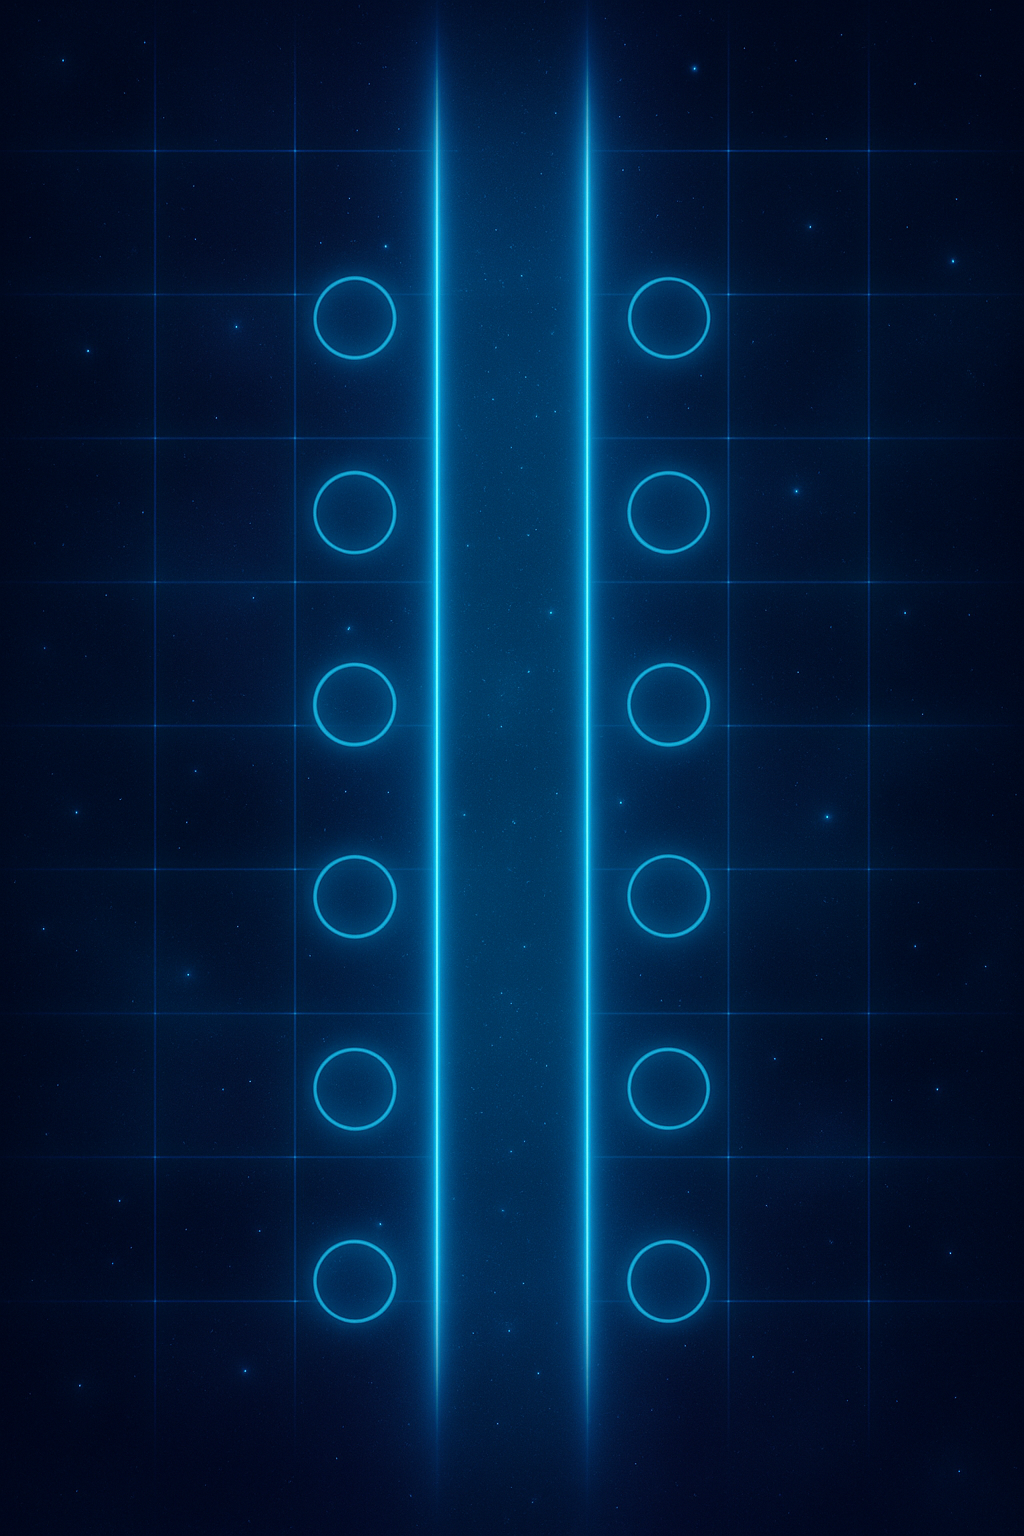
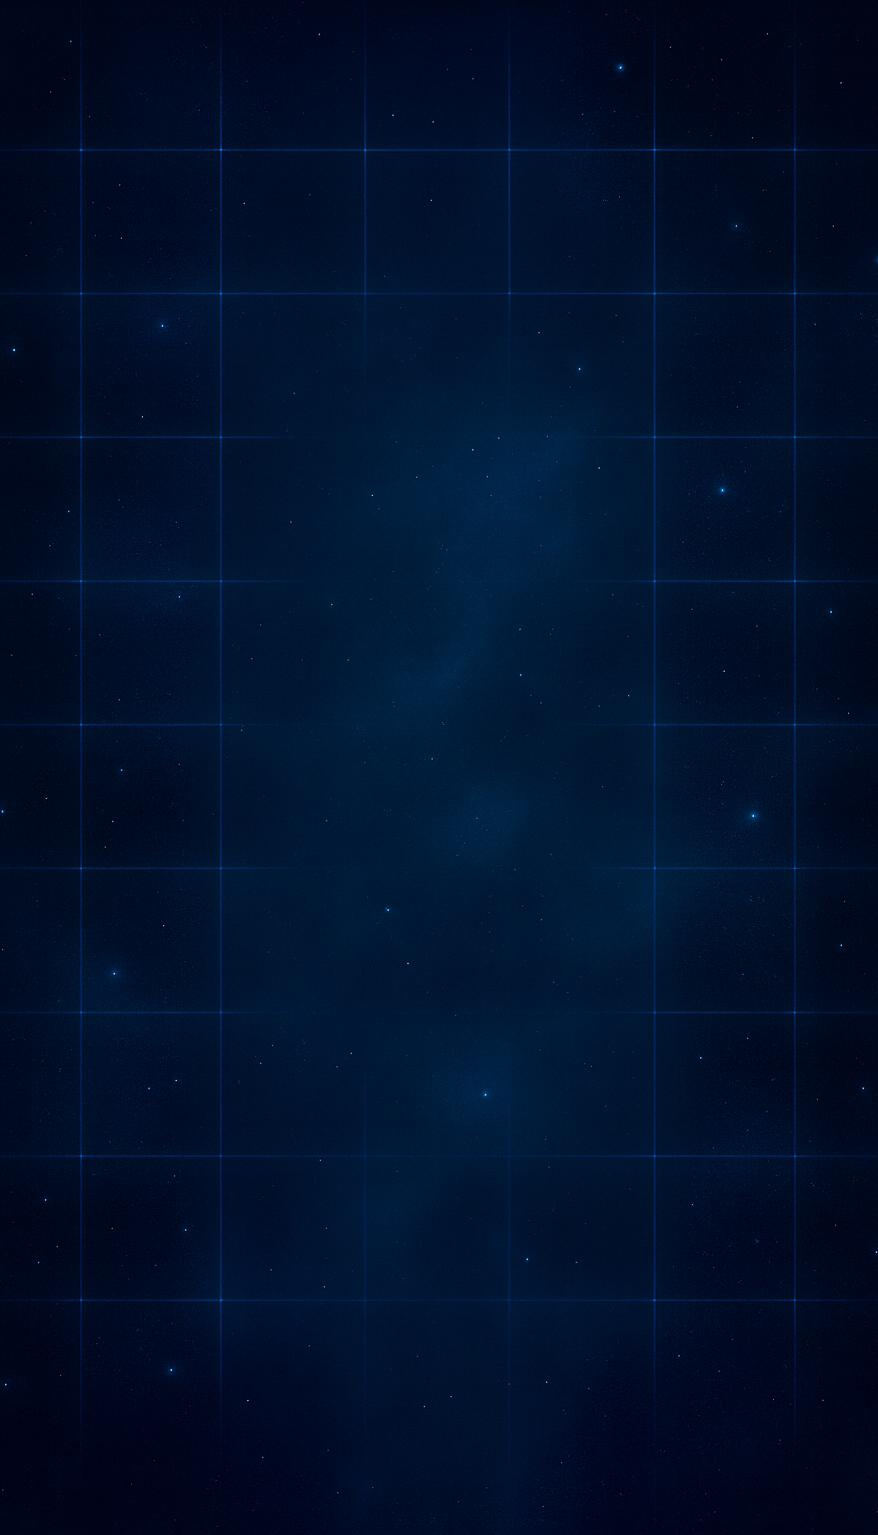
WIP.

diff --git a/src/Game.js b/src/Game.js
@@ -6,7 +6,7 @@ import { waveActions } from './gameWaves.js';
 import { callCrazyGamesEvent } from './crazyGamesIntegration.js';
 
 class Game {
-    constructor(canvas, { width = 540, height = 960, assets = null } = {}) {
+    constructor(canvas, { width = 540, height = 960 }) {
         this.canvas = canvas;
         this.logicalW = width;
         this.logicalH = height;
@@ -19,7 +19,8 @@ class Game {
         this.projectileSpawnInterval = 500;
         this.lastTime = 0;
         this.initStats();
-        this.pathX = this.logicalW / 2;
+        // this.pathX = this.logicalW / 2;
+        this.pathX = this.logicalW / 2 - 22;
         this.base = { x: this.pathX - 20, y: this.logicalH - 60, w: 40, h: 40 };
         this.createGrid();
         this.update = this.update.bind(this);
@@ -63,14 +64,17 @@ class Game {
 
     createGrid() {
         this.grid = [];
-        const leftX = this.pathX - 60;
-        const rightX = this.pathX + 60;
-        const startY = this.canvas.height - 100;
-        const step = 80;
-        for (let i = 0; i < 5; i++) {
+        // const leftX = this.pathX - 60;
+        const leftX = this.pathX - 97;
+        // const rightX = this.pathX + 60;
+        const rightX = this.pathX + 97;
+        // const startY = this.canvas.height - 100;
+        const startY = this.canvas.height - 21;
+        const step = 120.5;
+        for (let i = 0; i < 6; i++) {
             const y = startY - i * step;
-            this.grid.push({ x: leftX, y, w: 40, h: 40, occupied: false, highlight: 0 });
-            this.grid.push({ x: rightX, y, w: 40, h: 40, occupied: false, highlight: 0 });
+            this.grid.push({ x: leftX, y, w: 45, h: 45, occupied: false, highlight: 0 });
+            this.grid.push({ x: rightX, y, w: 45, h: 45, occupied: false, highlight: 0 });
         }
     }
 

diff --git a/src/Tower.js b/src/Tower.js
@@ -26,11 +26,11 @@ export default class Tower {
         };
     }
 
-    draw(ctx) {
+    draw(ctx, assets) {
         const c = this.center();
         this.drawRange(ctx, c);
         ctx.fillStyle = this.color;
-        this.drawBody(ctx, c);
+        this.drawBody(ctx, c, assets);
 
         if (this.level > 1) {
             this.highlight(ctx);
@@ -48,12 +48,23 @@ export default class Tower {
         ctx.stroke();
     }
 
-    drawBody(ctx, c) {
+    drawBody(ctx, c, assets) {
         const size = this.w / 2;
         ctx.beginPath();
 
+        const tower1Size = 70; 
+
+        // const sprite = this.color === 'red' ? assets.tower1 : assets.tower2;
+
+        const propertyName = `tower_${this.level}${this.color.charAt(0)}`;
+        const sprite = assets[propertyName];
+        if (!sprite) {
+            console.warn(`No sprite found for property name: ${propertyName}`);
+            return;
+        }
+
         if (this.level === 1) {
-            this.drawTriangle(ctx, c);
+            ctx.drawImage(sprite, c.x-tower1Size/2, c.y-tower1Size/2, tower1Size, tower1Size);
         } else if (this.level === 2) {
             this.drawRegularPolygon(ctx, c, 6, size, -Math.PI / 6);
         } else {
@@ -64,6 +75,7 @@ export default class Tower {
         ctx.fill();
     }
 
+    // todo remove if not needed
     drawTriangle(ctx, c) {
         ctx.moveTo(c.x, this.y);
         ctx.lineTo(this.x, this.y + this.h);

diff --git a/src/render.js b/src/render.js
@@ -3,10 +3,8 @@ export function draw(game) {
     ctx.clearRect(0, 0, game.canvas.width, game.canvas.height);
 
     if (game.assets?.bg) {
-        console.log(`Drawing background, logical sizes are: [${game.logicalW}:${game.logicalH}].`);
         ctx.drawImage(game.assets.bg, 0, 0, game.logicalW, game.logicalH);
-    } else {
-        console.log("No background asset found, filling with white");
+        ctx.drawImage(game.assets.road, game.logicalW / 2 - 50, 0, 100, game.logicalH);
     }
 
     drawBase(game);
@@ -27,15 +25,16 @@ function drawGrid(game) {
             const cx = cell.x + cell.w / 2;
             const cy = cell.y + cell.h / 2;
             ctx.beginPath();
-            ctx.arc(cx, cy, cell.w / 2, 0, Math.PI * 2);
-            ctx.strokeStyle = cell.highlight > 0 ? 'red' : 'rgba(0,0,0,0.3)';
-            ctx.stroke();
+            ctx.drawImage(game.assets.cell, cell.x, cell.y, 45, 45);
+            // ctx.arc(cx, cy, cell.w / 2, 0, Math.PI * 2);
+            // ctx.strokeStyle = cell.highlight > 0 ? 'red' : 'rgba(65, 245, 0, 1)';
+            // ctx.stroke();
         }
     });
 }
 
 export function drawEntities(game) {
-    game.towers.forEach(t => t.draw(game.ctx));
+    game.towers.forEach(t => t.draw(game.ctx, game.assets));
     game.enemies.forEach(e => e.draw(game.ctx));
     game.ctx.fillStyle = 'black';
     game.projectiles.forEach(p => {

diff --git a/src/assets.js b/src/assets.js
@@ -2,7 +2,14 @@
 export async function loadAssets() {
     console.log("Loading assets...");
     const bg = await loadImage('assets/bg.png');
-    return { bg };
+    const cell = await loadImage('assets/cell_cut.png');
+    const road = await loadImage('assets/road.png');
+    const tower_1r = await loadImage('assets/tower_1R.png');
+    const tower_1b = await loadImage('assets/tower_!B.png');
+    const tower_2r = await loadImage('assets/tower_2R.png');
+    const tower_2b = await loadImage('assets/tower_2B.png');
+    console.log("Finished loading assets.");
+    return { bg, cell, road, tower_1r, tower_1b, tower_2r, tower_2b };
 }
 
 function loadImage(url) {

diff --git a/src/ui.js b/src/ui.js
@@ -44,8 +44,13 @@ function bindButtons(game) {
 function bindCanvasClick(game) {
     game.canvas.addEventListener('click', e => {
         const pos = getMousePos(game.canvas, e);
+            console.log('Canvas click at', pos);
 
-        const tower = game.towers.find(t => isInside(pos, t));
+        // const tower = game.towers.find(t => isInside(pos, t));
+        const tower = game.towers.find(t => {
+            console.log('Checking tower at', t.x, t.y, 'with size', t.w, t.h);
+            return isInside(pos, t);
+    });
         if (tower) {
             game.switchTowerColor(tower);
             return;
